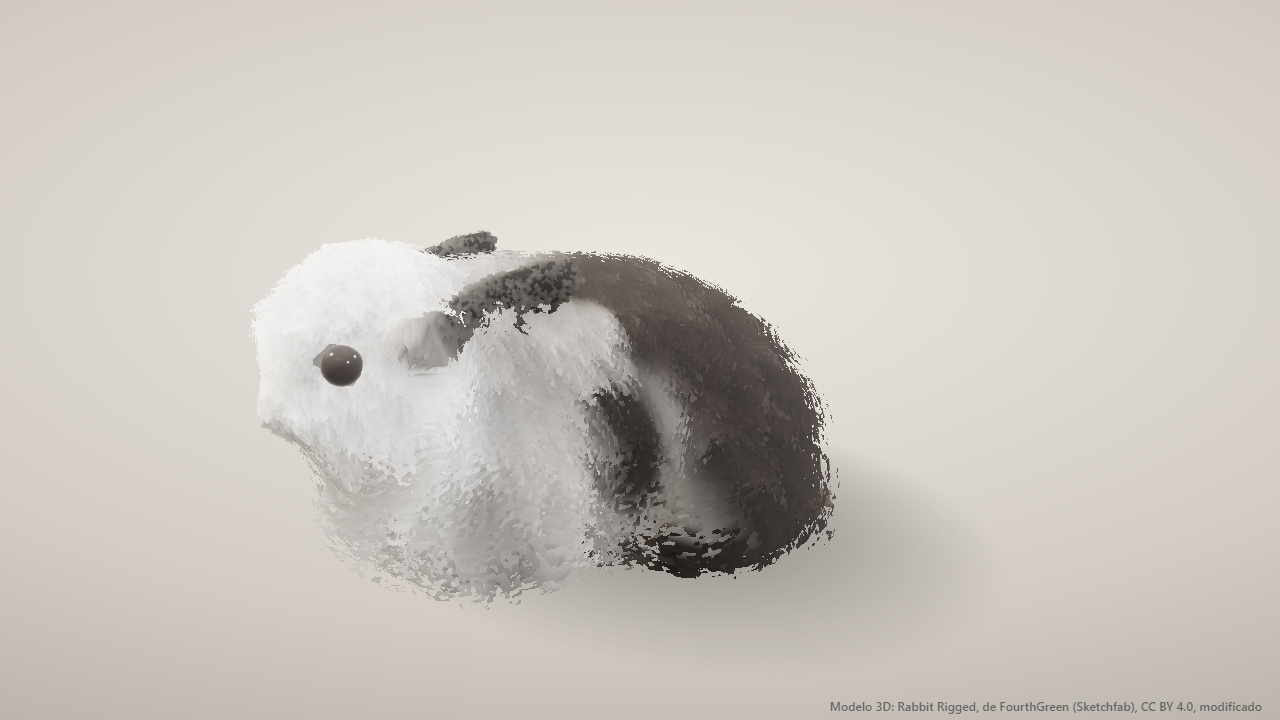
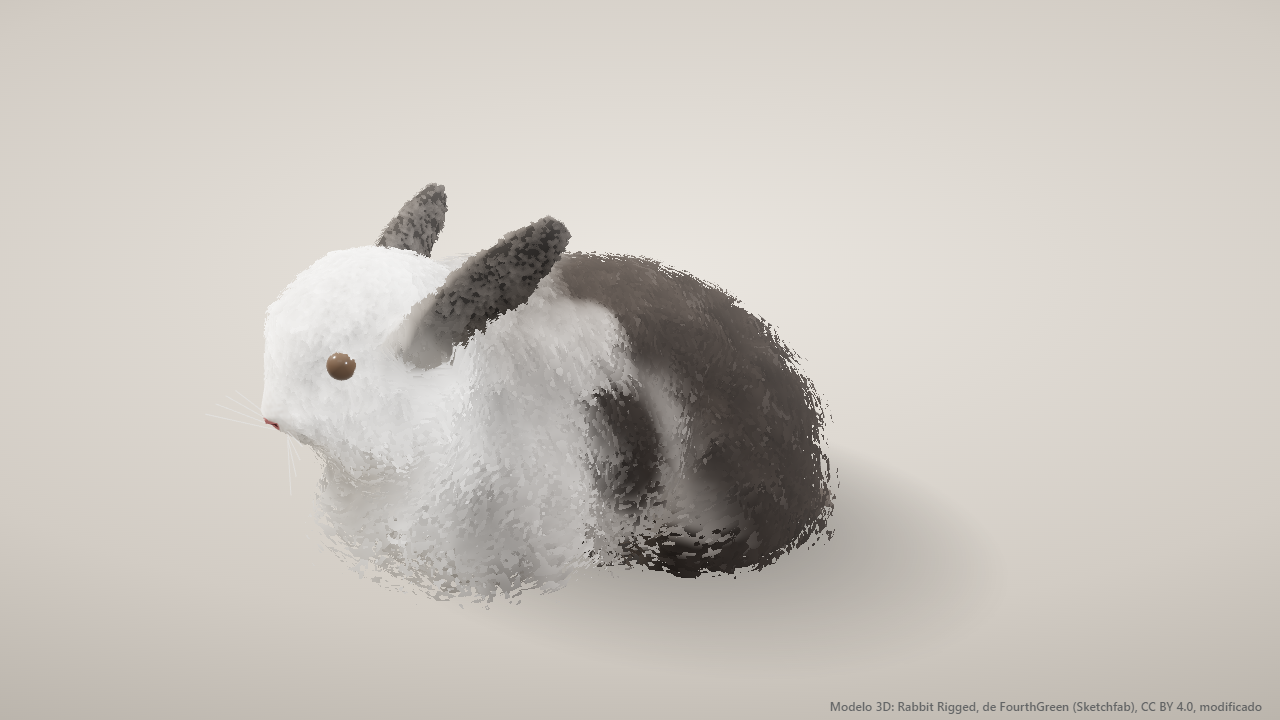
Coelho com miíase: rosto de coelho e retirada das larvas com a mão
- Olhos menores e castanho-escuros, com pálpebra escura; sem o buraco cinza em volta.
- Pelo curto no rosto; focinho com nariz rosado, narinas, boca em Y e bigodes.
- Orelhas inclinadas para trás, visíveis, em vez de enterradas no pelo.
- Felipe (26/11): a retirada das larvas foi com a mão nos dois casos; handoff e LEIAME atualizados.

Claude-Session: https://claude.ai/code/session_01N8Ng2NWWfjNjsdJ9HmjEVa

diff --git a/estagio/animacao-miiase-coelho/dist/miiase-coelho.html b/estagio/animacao-miiase-coelho/dist/miiase-coelho.html
@@ -3946,6 +3946,7 @@ var PELO = 3.3;                       /* comprimento do pelo no corpo, em u (≈
 
 /* regiões no espaço de ligação (medidas no próprio arquivo) */
 var OLHO_D = new V3(-2.25, 18.55, 9.3), OLHO_E = new V3(2.25, 18.55, 9.3);
+var NARIZ = new V3(0, 17.0, 12.15);   /* ponta do focinho (o vértice mais à frente da cabeça está em 0, 17,1, 12,25) */
 var FERIDAS = [   /* centro, raios: dorso, garupa, base da cauda, região genital e perineal */
   { c: [0, 18.3, -1.6], r: [2.5, 2.2, 3.4] },
   { c: [0, 14.6, -7.7], r: [3.3, 2.8, 2.6] },
@@ -4030,11 +4031,12 @@ function matCoelho(camada) {
         "#include <skinning_vertex>",
         "vBind = position; vReg = aReg;",
         "float L = uFurL;",
-        "L *= 1. - .5 * aReg.y;",                                    /* cabeça: pelo mais curto */
+        "L *= 1. - .72 * aReg.y;",                                   /* cabeça: pelo curto, para o rosto aparecer */
         "L *= 1. - .9 * aReg.x;",                                    /* orelhas */
         "L *= 1. - .55 * aReg.z;",                                   /* patas */
-        "L *= smoothstep(.9, 2.4, min(distance(position, " + g3(OLHO_D.toArray()) + "), distance(position, " + g3(OLHO_E.toArray()) + ")));",
-        "L *= 1. - .85 * smoothstep(9.8, 11.6, position.z) * step(14., position.y);",   /* focinho */
+        "L *= smoothstep(.55, 1.5, min(distance(position, " + g3(OLHO_D.toArray()) + "), distance(position, " + g3(OLHO_E.toArray()) + ")));",
+        "L *= 1. - .9 * smoothstep(9.6, 11.4, position.z) * step(14.5, position.y);",   /* focinho */
+        "L *= smoothstep(.6, 1.8, distance(position, " + g3(NARIZ.toArray()) + "));",  /* nariz e boca sem pelo */
         /* tosa: as camadas descem até a pele onde a máquina passou, e a borda do pelo cortado fica em rampa,
            sem degraus (a máscara fina, por pixel, termina o corte no fragment shader) */
         "L *= 1. - smoothstep(0., .7, tosa(position));",
@@ -4079,6 +4081,18 @@ function matCoelho(camada) {
           "  float rq = vn3(p * 7.) * .6 + vn3(p * 21.) * .4;",
           "  vec3 rest = mix(pele, corPelo(p, vReg) * .85 + .03, .34 + .3 * rq);",
           "  vec3 c = mix(raiz, rest, vis);",
+          /* rosto: pelo curto e branco no focinho, nariz rosado com as narinas, boca em Y */
+          "  float face = smoothstep(9.8, 11.2, p.z) * step(14.5, p.y);",
+          "  float dOlho = min(distance(p, " + g3(OLHO_D.toArray()) + "), distance(p, " + g3(OLHO_E.toArray()) + "));",
+          "  c = mix(c, lin(vec3(.2,.15,.13)), 1. - smoothstep(.65, 1.05, dOlho));",   /* pálpebra escura em volta do olho */
+          "  c = mix(c, mix(lin(vec3(.84,.81,.78)), lin(vec3(.93,.92,.9)), vn3(p * 9.)), face);",
+          "  float nariz = 1. - smoothstep(.75, 1., length((p - " + g3(NARIZ.toArray()) + ") / vec3(.7, .42, .55)));",
+          "  c = mix(c, lin(vec3(.74,.5,.5)), nariz);",
+          "  float narina = (1. - smoothstep(.06, .14, abs(abs(p.x) - .32))) * (1. - smoothstep(.05, .16, abs(p.y - 16.98))) * nariz;",
+          "  c = mix(c, lin(vec3(.25,.13,.13)), narina * .8);",
+          "  float boca = (1. - smoothstep(.05, .11, abs(p.x))) * step(16.15, p.y) * step(p.y, 16.72) * step(11.2, p.z);",
+          "  float labio = (1. - smoothstep(.05, .11, abs(p.y - 16.2 - abs(p.x) * .45))) * step(abs(p.x), .75) * step(11., p.z);",
+          "  c = mix(c, lin(vec3(.32,.22,.22)), max(boca, labio) * .85);",
           /* umidade e sujeira presas junto da pele (cena 2) */
           "  float sj = uSujo * smoothstep(0., .4, elip(p, vec3(0.,9.,-8.), vec3(5.,6.5,4.)) + (fbm3(p * 1.4) - .5) * .5) * vis;",
           "  c = mix(c, lin(vec3(.36,.29,.2)) * (.8 + .4 * vn3(p * 6.)), sj * .7);",
@@ -4202,9 +4216,9 @@ function montaCoelho(g) {
   corpo.add(g.scene);
   /* olhos: esferas escuras e brilhantes presas ao osso da cabeça */
   var cab = CO.ossos.Head_M; g.scene.updateMatrixWorld(true);
-  var matOlho = new THREE.MeshStandardMaterial({ color: 0x0b0908, roughness: .08, metalness: 0, envMapIntensity: 1.4 });
+  var matOlho = new THREE.MeshStandardMaterial({ color: 0x150d08, roughness: .1, metalness: 0, envMapIntensity: 1.2 });
   [OLHO_D, OLHO_E].forEach(function (P) {
-    var o = new THREE.Mesh(new THREE.SphereGeometry(.78, 24, 16), matOlho);
+    var o = new THREE.Mesh(new THREE.SphereGeometry(.56, 24, 16), matOlho);
     CO.olhos = CO.olhos || []; CO.olhos.push({ m: o, bind: P.clone() });
     cena3d.add(o);
   });
@@ -4336,6 +4350,28 @@ function gira(nome, x, y, z) {   /* rotação extra (radianos, eixos do próprio
   if (z) o.quaternion.multiply(_qd.setFromAxisAngle(_eixo.set(0, 0, 1), z));
 }
 function repouso() { for (var k in CO.ossos) CO.ossos[k].quaternion.copy(CO.q0[k]); }
+
+/* ============================================================ bigodes: 4 fios de cada lado do focinho, presos à pele */
+var BIGODES = (function () {
+  var g = new THREE.BufferGeometry(); g.setAttribute("position", new THREE.Float32BufferAttribute(new Float32Array(8 * 2 * 3), 3));
+  var l = new THREE.LineSegments(g, new THREE.LineBasicMaterial({ color: 0xf2efe8, transparent: true, opacity: .7 }));
+  l.frustumCulled = false; cena3d.add(l); return l;
+})();
+var BASE_BIG = [new V3(-.8, 16.5, 11.7), new V3(.8, 16.5, 11.7)], _bb = new V3(), _bd = new V3();
+function bigodes() {
+  if (!CO.ok) return;
+  var arr = BIGODES.geometry.attributes.position.array, k = 0;
+  BASE_BIG.forEach(function (B, lado) {
+    var s = lado ? 1 : -1;
+    pontoMundo(B, _bb);
+    for (var j = 0; j < 4; j++) {
+      _bd.set(s, -.12 + j * .1, .3 - j * .05).normalize().multiplyScalar(5 - j * .5).transformDirection(CO.sk.matrixWorld).multiplyScalar(5 - j * .5);
+      arr[k++] = _bb.x; arr[k++] = _bb.y + (j - 1.5) * .12; arr[k++] = _bb.z;
+      arr[k++] = _bb.x + _bd.x; arr[k++] = _bb.y + _bd.y; arr[k++] = _bb.z + _bd.z;
+    }
+  });
+  BIGODES.geometry.attributes.position.needsUpdate = true;
+}
 
 /* ============================================================ ambientes
    estúdio (cenas 1 a 4): só a sombra no chão, sobre o fundo do palco;
@@ -4469,8 +4505,8 @@ var DBG = (function () {
 var DEITA_Y = -3.6;
 function poseDeitado(t) {
   raiz.position.set(0, DEITA_Y, 0); raiz.rotation.set(0, 0, 0);
-  gira("Ear_R", 0, .95, .12 + .03 * Math.sin(t * 1.3));
-  gira("Ear_L", 0, .95, .12 + .03 * Math.sin(t * 1.1 + 1));
+  gira("Ear_R", 0, .5, .28 + .03 * Math.sin(t * 1.3));
+  gira("Ear_L", 0, .5, .28 + .03 * Math.sin(t * 1.1 + 1));
   gira("frontHip_R", 0, 0, .5); gira("frontHip_L", 0, 0, .5);
   gira("backHip_R", 0, 0, -.5); gira("backHip_L", 0, 0, -.5);
   gira("Neck_M", 0, 0, .12);
@@ -4499,6 +4535,7 @@ function depoisDaPose(t) {
   U.uGrav.value.set(0, -1, 0).applyMatrix3(_m3).normalize();
   /* olhos */
   CO.olhos.forEach(function (O) { pontoMundo(O.bind, O.m.position); });
+  bigodes();
   /* larvas e ovos: escondidos por enquanto */
   larvas.count = 0; ovos.count = 0;
   if (DBG.cam) { var c = DBG.cam; cam.position.set(c[0], c[1], c[2]); cam.lookAt(c[3], c[4], c[5]); }

diff --git a/estagio/animacao-miiase-coelho/index.html b/estagio/animacao-miiase-coelho/index.html
@@ -3956,6 +3956,7 @@ var PELO = 3.3;                       /* comprimento do pelo no corpo, em u (≈
 
 /* regiões no espaço de ligação (medidas no próprio arquivo) */
 var OLHO_D = new V3(-2.25, 18.55, 9.3), OLHO_E = new V3(2.25, 18.55, 9.3);
+var NARIZ = new V3(0, 17.0, 12.15);   /* ponta do focinho (o vértice mais à frente da cabeça está em 0, 17,1, 12,25) */
 var FERIDAS = [   /* centro, raios: dorso, garupa, base da cauda, região genital e perineal */
   { c: [0, 18.3, -1.6], r: [2.5, 2.2, 3.4] },
   { c: [0, 14.6, -7.7], r: [3.3, 2.8, 2.6] },
@@ -4040,11 +4041,12 @@ function matCoelho(camada) {
         "#include <skinning_vertex>",
         "vBind = position; vReg = aReg;",
         "float L = uFurL;",
-        "L *= 1. - .5 * aReg.y;",                                    /* cabeça: pelo mais curto */
+        "L *= 1. - .72 * aReg.y;",                                   /* cabeça: pelo curto, para o rosto aparecer */
         "L *= 1. - .9 * aReg.x;",                                    /* orelhas */
         "L *= 1. - .55 * aReg.z;",                                   /* patas */
-        "L *= smoothstep(.9, 2.4, min(distance(position, " + g3(OLHO_D.toArray()) + "), distance(position, " + g3(OLHO_E.toArray()) + ")));",
-        "L *= 1. - .85 * smoothstep(9.8, 11.6, position.z) * step(14., position.y);",   /* focinho */
+        "L *= smoothstep(.55, 1.5, min(distance(position, " + g3(OLHO_D.toArray()) + "), distance(position, " + g3(OLHO_E.toArray()) + ")));",
+        "L *= 1. - .9 * smoothstep(9.6, 11.4, position.z) * step(14.5, position.y);",   /* focinho */
+        "L *= smoothstep(.6, 1.8, distance(position, " + g3(NARIZ.toArray()) + "));",  /* nariz e boca sem pelo */
         /* tosa: as camadas descem até a pele onde a máquina passou, e a borda do pelo cortado fica em rampa,
            sem degraus (a máscara fina, por pixel, termina o corte no fragment shader) */
         "L *= 1. - smoothstep(0., .7, tosa(position));",
@@ -4089,6 +4091,18 @@ function matCoelho(camada) {
           "  float rq = vn3(p * 7.) * .6 + vn3(p * 21.) * .4;",
           "  vec3 rest = mix(pele, corPelo(p, vReg) * .85 + .03, .34 + .3 * rq);",
           "  vec3 c = mix(raiz, rest, vis);",
+          /* rosto: pelo curto e branco no focinho, nariz rosado com as narinas, boca em Y */
+          "  float face = smoothstep(9.8, 11.2, p.z) * step(14.5, p.y);",
+          "  float dOlho = min(distance(p, " + g3(OLHO_D.toArray()) + "), distance(p, " + g3(OLHO_E.toArray()) + "));",
+          "  c = mix(c, lin(vec3(.2,.15,.13)), 1. - smoothstep(.65, 1.05, dOlho));",   /* pálpebra escura em volta do olho */
+          "  c = mix(c, mix(lin(vec3(.84,.81,.78)), lin(vec3(.93,.92,.9)), vn3(p * 9.)), face);",
+          "  float nariz = 1. - smoothstep(.75, 1., length((p - " + g3(NARIZ.toArray()) + ") / vec3(.7, .42, .55)));",
+          "  c = mix(c, lin(vec3(.74,.5,.5)), nariz);",
+          "  float narina = (1. - smoothstep(.06, .14, abs(abs(p.x) - .32))) * (1. - smoothstep(.05, .16, abs(p.y - 16.98))) * nariz;",
+          "  c = mix(c, lin(vec3(.25,.13,.13)), narina * .8);",
+          "  float boca = (1. - smoothstep(.05, .11, abs(p.x))) * step(16.15, p.y) * step(p.y, 16.72) * step(11.2, p.z);",
+          "  float labio = (1. - smoothstep(.05, .11, abs(p.y - 16.2 - abs(p.x) * .45))) * step(abs(p.x), .75) * step(11., p.z);",
+          "  c = mix(c, lin(vec3(.32,.22,.22)), max(boca, labio) * .85);",
           /* umidade e sujeira presas junto da pele (cena 2) */
           "  float sj = uSujo * smoothstep(0., .4, elip(p, vec3(0.,9.,-8.), vec3(5.,6.5,4.)) + (fbm3(p * 1.4) - .5) * .5) * vis;",
           "  c = mix(c, lin(vec3(.36,.29,.2)) * (.8 + .4 * vn3(p * 6.)), sj * .7);",
@@ -4212,9 +4226,9 @@ function montaCoelho(g) {
   corpo.add(g.scene);
   /* olhos: esferas escuras e brilhantes presas ao osso da cabeça */
   var cab = CO.ossos.Head_M; g.scene.updateMatrixWorld(true);
-  var matOlho = new THREE.MeshStandardMaterial({ color: 0x0b0908, roughness: .08, metalness: 0, envMapIntensity: 1.4 });
+  var matOlho = new THREE.MeshStandardMaterial({ color: 0x150d08, roughness: .1, metalness: 0, envMapIntensity: 1.2 });
   [OLHO_D, OLHO_E].forEach(function (P) {
-    var o = new THREE.Mesh(new THREE.SphereGeometry(.78, 24, 16), matOlho);
+    var o = new THREE.Mesh(new THREE.SphereGeometry(.56, 24, 16), matOlho);
     CO.olhos = CO.olhos || []; CO.olhos.push({ m: o, bind: P.clone() });
     cena3d.add(o);
   });
@@ -4346,6 +4360,28 @@ function gira(nome, x, y, z) {   /* rotação extra (radianos, eixos do próprio
   if (z) o.quaternion.multiply(_qd.setFromAxisAngle(_eixo.set(0, 0, 1), z));
 }
 function repouso() { for (var k in CO.ossos) CO.ossos[k].quaternion.copy(CO.q0[k]); }
+
+/* ============================================================ bigodes: 4 fios de cada lado do focinho, presos à pele */
+var BIGODES = (function () {
+  var g = new THREE.BufferGeometry(); g.setAttribute("position", new THREE.Float32BufferAttribute(new Float32Array(8 * 2 * 3), 3));
+  var l = new THREE.LineSegments(g, new THREE.LineBasicMaterial({ color: 0xf2efe8, transparent: true, opacity: .7 }));
+  l.frustumCulled = false; cena3d.add(l); return l;
+})();
+var BASE_BIG = [new V3(-.8, 16.5, 11.7), new V3(.8, 16.5, 11.7)], _bb = new V3(), _bd = new V3();
+function bigodes() {
+  if (!CO.ok) return;
+  var arr = BIGODES.geometry.attributes.position.array, k = 0;
+  BASE_BIG.forEach(function (B, lado) {
+    var s = lado ? 1 : -1;
+    pontoMundo(B, _bb);
+    for (var j = 0; j < 4; j++) {
+      _bd.set(s, -.12 + j * .1, .3 - j * .05).normalize().multiplyScalar(5 - j * .5).transformDirection(CO.sk.matrixWorld).multiplyScalar(5 - j * .5);
+      arr[k++] = _bb.x; arr[k++] = _bb.y + (j - 1.5) * .12; arr[k++] = _bb.z;
+      arr[k++] = _bb.x + _bd.x; arr[k++] = _bb.y + _bd.y; arr[k++] = _bb.z + _bd.z;
+    }
+  });
+  BIGODES.geometry.attributes.position.needsUpdate = true;
+}
 
 /* ============================================================ ambientes
    estúdio (cenas 1 a 4): só a sombra no chão, sobre o fundo do palco;
@@ -4479,8 +4515,8 @@ var DBG = (function () {
 var DEITA_Y = -3.6;
 function poseDeitado(t) {
   raiz.position.set(0, DEITA_Y, 0); raiz.rotation.set(0, 0, 0);
-  gira("Ear_R", 0, .95, .12 + .03 * Math.sin(t * 1.3));
-  gira("Ear_L", 0, .95, .12 + .03 * Math.sin(t * 1.1 + 1));
+  gira("Ear_R", 0, .5, .28 + .03 * Math.sin(t * 1.3));
+  gira("Ear_L", 0, .5, .28 + .03 * Math.sin(t * 1.1 + 1));
   gira("frontHip_R", 0, 0, .5); gira("frontHip_L", 0, 0, .5);
   gira("backHip_R", 0, 0, -.5); gira("backHip_L", 0, 0, -.5);
   gira("Neck_M", 0, 0, .12);
@@ -4509,6 +4545,7 @@ function depoisDaPose(t) {
   U.uGrav.value.set(0, -1, 0).applyMatrix3(_m3).normalize();
   /* olhos */
   CO.olhos.forEach(function (O) { pontoMundo(O.bind, O.m.position); });
+  bigodes();
   /* larvas e ovos: escondidos por enquanto */
   larvas.count = 0; ovos.count = 0;
   if (DBG.cam) { var c = DBG.cam; cam.position.set(c[0], c[1], c[2]); cam.lookAt(c[3], c[4], c[5]); }

diff --git a/estagio/animacao-miiase-coelho/src/coelho.js b/estagio/animacao-miiase-coelho/src/coelho.js
@@ -10,6 +10,7 @@ var PELO = 3.3;                       /* comprimento do pelo no corpo, em u (≈
 
 /* regiões no espaço de ligação (medidas no próprio arquivo) */
 var OLHO_D = new V3(-2.25, 18.55, 9.3), OLHO_E = new V3(2.25, 18.55, 9.3);
+var NARIZ = new V3(0, 17.0, 12.15);   /* ponta do focinho (o vértice mais à frente da cabeça está em 0, 17,1, 12,25) */
 var FERIDAS = [   /* centro, raios: dorso, garupa, base da cauda, região genital e perineal */
   { c: [0, 18.3, -1.6], r: [2.5, 2.2, 3.4] },
   { c: [0, 14.6, -7.7], r: [3.3, 2.8, 2.6] },
@@ -94,11 +95,12 @@ function matCoelho(camada) {
         "#include <skinning_vertex>",
         "vBind = position; vReg = aReg;",
         "float L = uFurL;",
-        "L *= 1. - .5 * aReg.y;",                                    /* cabeça: pelo mais curto */
+        "L *= 1. - .72 * aReg.y;",                                   /* cabeça: pelo curto, para o rosto aparecer */
         "L *= 1. - .9 * aReg.x;",                                    /* orelhas */
         "L *= 1. - .55 * aReg.z;",                                   /* patas */
-        "L *= smoothstep(.9, 2.4, min(distance(position, " + g3(OLHO_D.toArray()) + "), distance(position, " + g3(OLHO_E.toArray()) + ")));",
-        "L *= 1. - .85 * smoothstep(9.8, 11.6, position.z) * step(14., position.y);",   /* focinho */
+        "L *= smoothstep(.55, 1.5, min(distance(position, " + g3(OLHO_D.toArray()) + "), distance(position, " + g3(OLHO_E.toArray()) + ")));",
+        "L *= 1. - .9 * smoothstep(9.6, 11.4, position.z) * step(14.5, position.y);",   /* focinho */
+        "L *= smoothstep(.6, 1.8, distance(position, " + g3(NARIZ.toArray()) + "));",  /* nariz e boca sem pelo */
         /* tosa: as camadas descem até a pele onde a máquina passou, e a borda do pelo cortado fica em rampa,
            sem degraus (a máscara fina, por pixel, termina o corte no fragment shader) */
         "L *= 1. - smoothstep(0., .7, tosa(position));",
@@ -143,6 +145,18 @@ function matCoelho(camada) {
           "  float rq = vn3(p * 7.) * .6 + vn3(p * 21.) * .4;",
           "  vec3 rest = mix(pele, corPelo(p, vReg) * .85 + .03, .34 + .3 * rq);",
           "  vec3 c = mix(raiz, rest, vis);",
+          /* rosto: pelo curto e branco no focinho, nariz rosado com as narinas, boca em Y */
+          "  float face = smoothstep(9.8, 11.2, p.z) * step(14.5, p.y);",
+          "  float dOlho = min(distance(p, " + g3(OLHO_D.toArray()) + "), distance(p, " + g3(OLHO_E.toArray()) + "));",
+          "  c = mix(c, lin(vec3(.2,.15,.13)), 1. - smoothstep(.65, 1.05, dOlho));",   /* pálpebra escura em volta do olho */
+          "  c = mix(c, mix(lin(vec3(.84,.81,.78)), lin(vec3(.93,.92,.9)), vn3(p * 9.)), face);",
+          "  float nariz = 1. - smoothstep(.75, 1., length((p - " + g3(NARIZ.toArray()) + ") / vec3(.7, .42, .55)));",
+          "  c = mix(c, lin(vec3(.74,.5,.5)), nariz);",
+          "  float narina = (1. - smoothstep(.06, .14, abs(abs(p.x) - .32))) * (1. - smoothstep(.05, .16, abs(p.y - 16.98))) * nariz;",
+          "  c = mix(c, lin(vec3(.25,.13,.13)), narina * .8);",
+          "  float boca = (1. - smoothstep(.05, .11, abs(p.x))) * step(16.15, p.y) * step(p.y, 16.72) * step(11.2, p.z);",
+          "  float labio = (1. - smoothstep(.05, .11, abs(p.y - 16.2 - abs(p.x) * .45))) * step(abs(p.x), .75) * step(11., p.z);",
+          "  c = mix(c, lin(vec3(.32,.22,.22)), max(boca, labio) * .85);",
           /* umidade e sujeira presas junto da pele (cena 2) */
           "  float sj = uSujo * smoothstep(0., .4, elip(p, vec3(0.,9.,-8.), vec3(5.,6.5,4.)) + (fbm3(p * 1.4) - .5) * .5) * vis;",
           "  c = mix(c, lin(vec3(.36,.29,.2)) * (.8 + .4 * vn3(p * 6.)), sj * .7);",
@@ -266,9 +280,9 @@ function montaCoelho(g) {
   corpo.add(g.scene);
   /* olhos: esferas escuras e brilhantes presas ao osso da cabeça */
   var cab = CO.ossos.Head_M; g.scene.updateMatrixWorld(true);
-  var matOlho = new THREE.MeshStandardMaterial({ color: 0x0b0908, roughness: .08, metalness: 0, envMapIntensity: 1.4 });
+  var matOlho = new THREE.MeshStandardMaterial({ color: 0x150d08, roughness: .1, metalness: 0, envMapIntensity: 1.2 });
   [OLHO_D, OLHO_E].forEach(function (P) {
-    var o = new THREE.Mesh(new THREE.SphereGeometry(.78, 24, 16), matOlho);
+    var o = new THREE.Mesh(new THREE.SphereGeometry(.56, 24, 16), matOlho);
     CO.olhos = CO.olhos || []; CO.olhos.push({ m: o, bind: P.clone() });
     cena3d.add(o);
   });
@@ -400,3 +414,25 @@ function gira(nome, x, y, z) {   /* rotação extra (radianos, eixos do próprio
   if (z) o.quaternion.multiply(_qd.setFromAxisAngle(_eixo.set(0, 0, 1), z));
 }
 function repouso() { for (var k in CO.ossos) CO.ossos[k].quaternion.copy(CO.q0[k]); }
+
+/* ============================================================ bigodes: 4 fios de cada lado do focinho, presos à pele */
+var BIGODES = (function () {
+  var g = new THREE.BufferGeometry(); g.setAttribute("position", new THREE.Float32BufferAttribute(new Float32Array(8 * 2 * 3), 3));
+  var l = new THREE.LineSegments(g, new THREE.LineBasicMaterial({ color: 0xf2efe8, transparent: true, opacity: .7 }));
+  l.frustumCulled = false; cena3d.add(l); return l;
+})();
+var BASE_BIG = [new V3(-.8, 16.5, 11.7), new V3(.8, 16.5, 11.7)], _bb = new V3(), _bd = new V3();
+function bigodes() {
+  if (!CO.ok) return;
+  var arr = BIGODES.geometry.attributes.position.array, k = 0;
+  BASE_BIG.forEach(function (B, lado) {
+    var s = lado ? 1 : -1;
+    pontoMundo(B, _bb);
+    for (var j = 0; j < 4; j++) {
+      _bd.set(s, -.12 + j * .1, .3 - j * .05).normalize().multiplyScalar(5 - j * .5).transformDirection(CO.sk.matrixWorld).multiplyScalar(5 - j * .5);
+      arr[k++] = _bb.x; arr[k++] = _bb.y + (j - 1.5) * .12; arr[k++] = _bb.z;
+      arr[k++] = _bb.x + _bd.x; arr[k++] = _bb.y + _bd.y; arr[k++] = _bb.z + _bd.z;
+    }
+  });
+  BIGODES.geometry.attributes.position.needsUpdate = true;
+}

diff --git a/estagio/animacao-miiase-coelho/src/cenas.js b/estagio/animacao-miiase-coelho/src/cenas.js
@@ -16,8 +16,8 @@ var DBG = (function () {
 var DEITA_Y = -3.6;
 function poseDeitado(t) {
   raiz.position.set(0, DEITA_Y, 0); raiz.rotation.set(0, 0, 0);
-  gira("Ear_R", 0, .95, .12 + .03 * Math.sin(t * 1.3));
-  gira("Ear_L", 0, .95, .12 + .03 * Math.sin(t * 1.1 + 1));
+  gira("Ear_R", 0, .5, .28 + .03 * Math.sin(t * 1.3));
+  gira("Ear_L", 0, .5, .28 + .03 * Math.sin(t * 1.1 + 1));
   gira("frontHip_R", 0, 0, .5); gira("frontHip_L", 0, 0, .5);
   gira("backHip_R", 0, 0, -.5); gira("backHip_L", 0, 0, -.5);
   gira("Neck_M", 0, 0, .12);
@@ -46,6 +46,7 @@ function depoisDaPose(t) {
   U.uGrav.value.set(0, -1, 0).applyMatrix3(_m3).normalize();
   /* olhos */
   CO.olhos.forEach(function (O) { pontoMundo(O.bind, O.m.position); });
+  bigodes();
   /* larvas e ovos: escondidos por enquanto */
   larvas.count = 0; ovos.count = 0;
   if (DBG.cam) { var c = DBG.cam; cam.position.set(c[0], c[1], c[2]); cam.lookAt(c[3], c[4], c[5]); }
